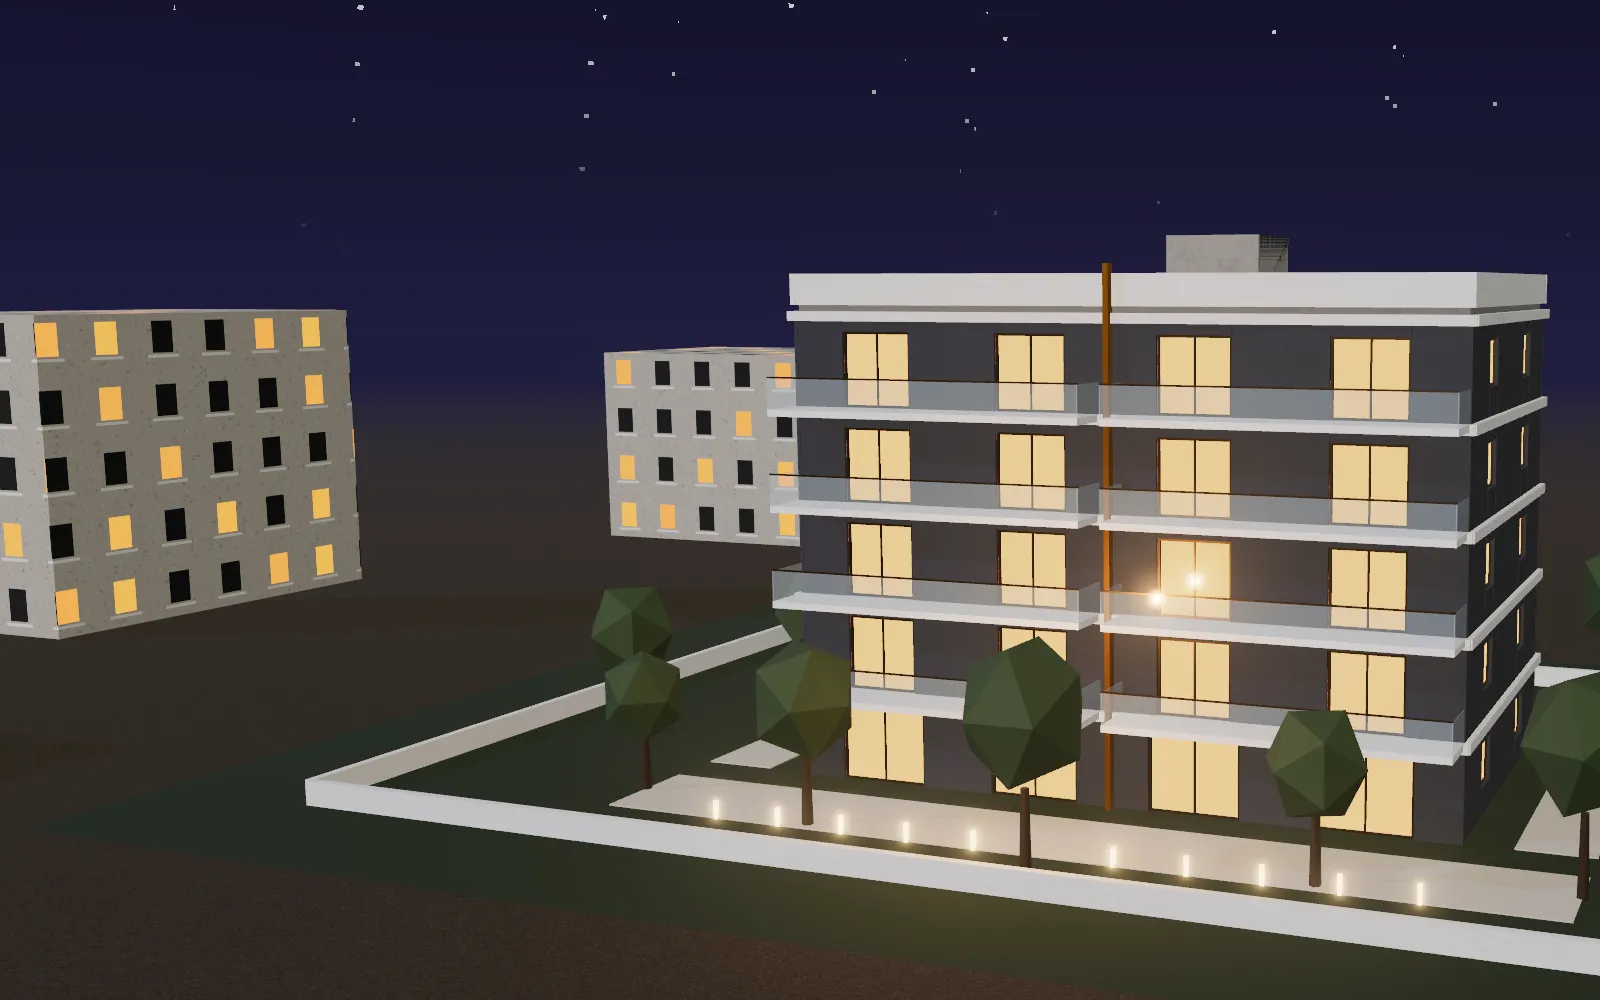
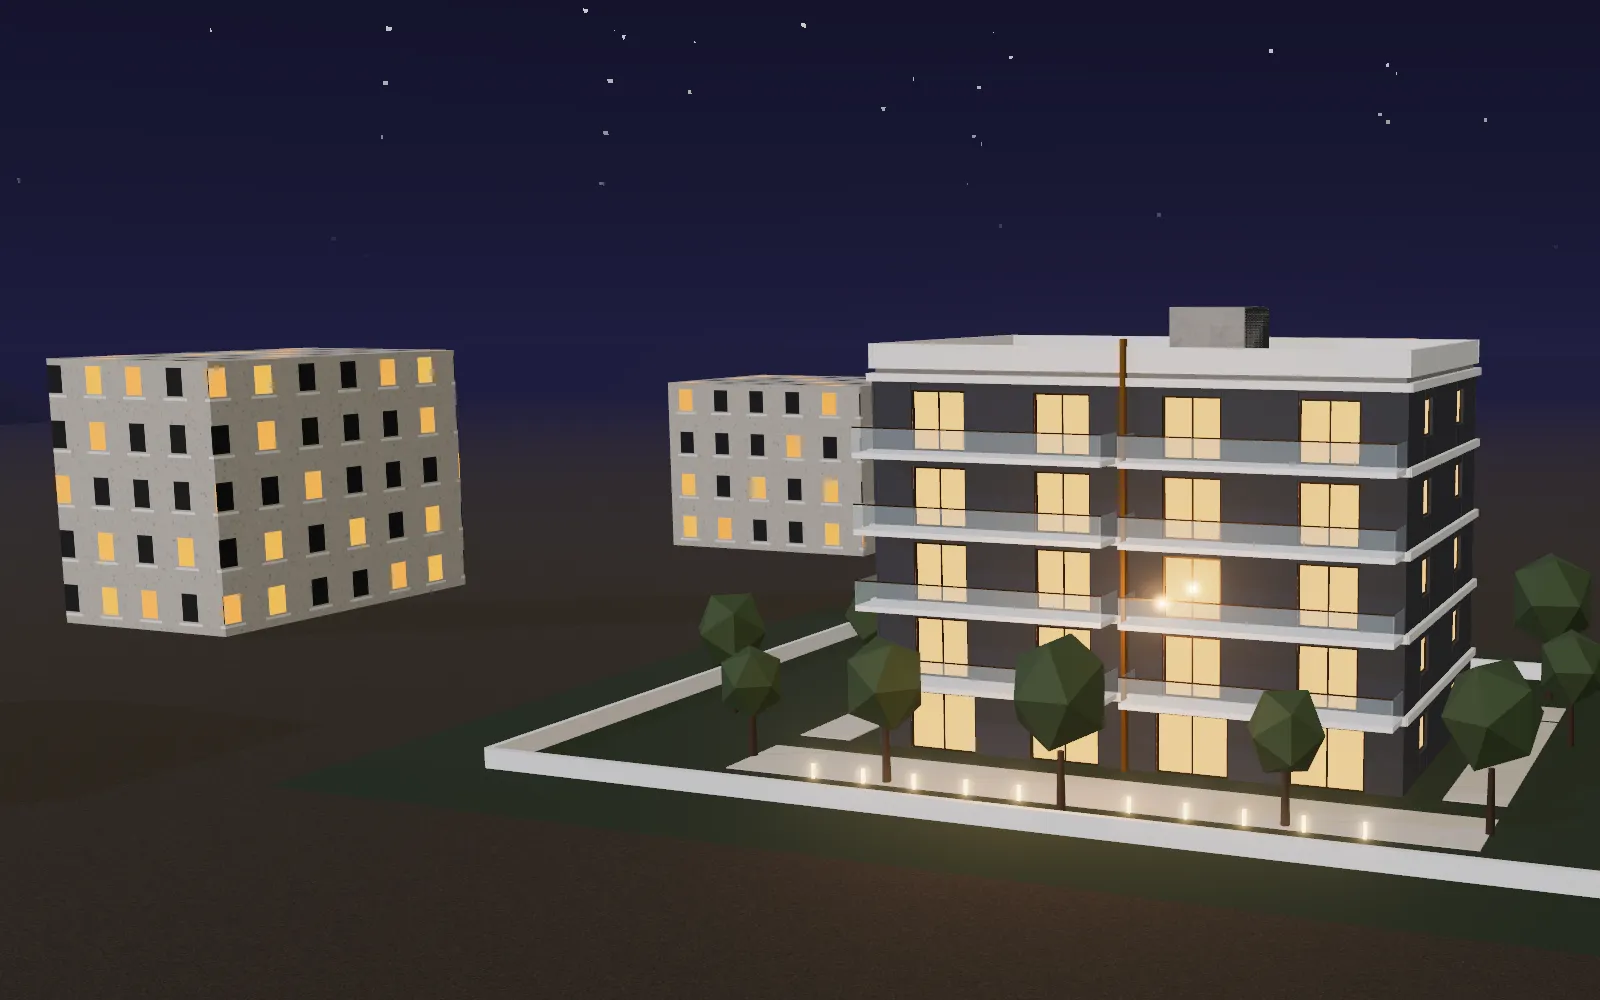
Ottimizza prestazioni, accessibilita' e SEO della bozza
- Il 3D si carica al primo gesto; nel frattempo il racconto usa le immagini
  gia' pronte, caricate solo quando servono
- Versione leggera automatica senza scheda video
- Nomi accessibili per i pulsanti degli strumenti
- robots.txt, sitemap, canonical e URL assoluti per anteprime e dati strutturati
- Apertura con edificio piu' arretrato e titolo piu' compatto

Claude-Session: https://claude.ai/code/session_01A6gSpR9jgixhBShp2m3M44

diff --git a/src/main.js b/src/main.js
@@ -19,11 +19,20 @@ const mobile = mq('(max-width: 760px)') || mq('(pointer: coarse)');
 function hasWebGL() {
   try { const c = document.createElement('canvas'); return !!(c.getContext('webgl2') || c.getContext('webgl')); } catch { return false; }
 }
+// Senza scheda video (rendering software) il 3D sarebbe lento: meglio la versione leggera.
+function softwareGL() {
+  try {
+    const gl = document.createElement('canvas').getContext('webgl');
+    const ext = gl && gl.getExtension('WEBGL_debug_renderer_info');
+    const r = ext ? gl.getParameter(ext.UNMASKED_RENDERER_WEBGL) : '';
+    return /swiftshader|llvmpipe|software|basic render/i.test(r);
+  } catch { return false; }
+}
 const conn = navigator.connection || {};
 const lowPower = (navigator.deviceMemory && navigator.deviceMemory <= 3) || (mobile && navigator.hardwareConcurrency && navigator.hardwareConcurrency <= 4) || conn.saveData;
 let mode = '3d';
 if (!hasWebGL()) mode = 'lite';
-else if (params.has('lite') || reduced || lowPower) mode = 'lite';
+else if (params.has('lite') || reduced || lowPower || softwareGL()) mode = 'lite';
 if (params.has('3d') && hasWebGL()) mode = '3d';
 document.documentElement.dataset.mode = mode;
 
@@ -123,33 +132,38 @@ function onScroll() {
     phaseBtns.forEach((b, k) => { b.toggleAttribute('aria-current', k === i); if (k === i) b.setAttribute('aria-current', 'step'); b.classList.toggle('done', k < i); });
   }
   const [, ora, mom] = timeAt(t); hudOra.textContent = ora; hudMomento.textContent = mom;
-  if (exp) exp.setTarget(t); else if (mode === 'lite') liteFrame(t);
+  if (exp) exp.setTarget(t); else liteFrame(t);
   // pausa del rendering quando la scena non e' visibile
   if (exp) exp.setActive(y < metrics.expEnd);
 }
 
-// ---------------- versione leggera: immagini dalla stessa scena ----------------
+// ---------------- immagini dalla stessa scena ----------------
+// Usate dalla versione leggera e, nella versione 3D, finché la scena non è pronta.
 const framesEl = $('#frames');
-let frames = [];
+const frames = [];
+const suf = mobile ? 'm' : 'd';
+for (let k = 0; k <= 12; k++) {
+  const img = new Image(); img.alt = ''; img.decoding = 'async';
+  framesEl.appendChild(img); frames.push(img);
+}
+// carica solo l'immagine che serve e le due vicine
+const need = (k) => { const f = frames[k]; if (f && !f.src) f.src = `frames/f${String(k).padStart(2, '0')}-${suf}.webp`; };
 function setupLite() {
-  const suf = mobile ? 'm' : 'd';
-  for (let k = 0; k <= 12; k++) {
-    const img = new Image(); img.alt = ''; img.decoding = 'async';
-    img.loading = k === 12 || k === 0 ? 'eager' : 'lazy';
-    img.src = `frames/f${String(k).padStart(2, '0')}-${suf}.webp`;
-    framesEl.appendChild(img); frames.push(img);
-  }
   $('#t-explore').hidden = true; $('#t-section').hidden = true; $('#t-site').hidden = true;
+  if (!hasWebGL()) return;
   const btn = document.createElement('button'); btn.type = 'button'; btn.className = 'tool'; btn.id = 't-3d';
+  btn.setAttribute('aria-label', 'Attiva la scena 3D');
   btn.innerHTML = '<svg viewBox="0 0 24 24" aria-hidden="true"><path d="M12 3l8 4.5v9L12 21l-8-4.5v-9zM12 12l8-4.5M12 12v9M12 12L4 7.5"/></svg><span>Attiva il 3D</span>';
-  if (hasWebGL()) { $('.toolbar').prepend(btn); btn.addEventListener('click', () => { location.search = '?3d'; }); }
+  $('.toolbar').prepend(btn);
+  btn.addEventListener('click', () => { mode = '3d'; document.documentElement.dataset.mode = '3d'; btn.remove(); ['#t-explore', '#t-section', '#t-site'].forEach((id) => { $(id).hidden = false; }); load3D(); });
 }
 let liteIdx = -1;
 function liteFrame(t) {
   const k = clamp(Math.round(t - 0.4), 0, 12);
   if (k === liteIdx) return; liteIdx = k;
+  need(k); need(k - 1); need(k + 1);
   frames.forEach((f, j) => f.classList.toggle('on', j === k));
-  $('#poster').style.opacity = '0';
+  if (k !== 12) $('#poster').style.opacity = '0';
 }
 
 // ---------------- caricamento della scena 3D ----------------
@@ -174,16 +188,12 @@ async function load3D() {
     mode = 'lite'; document.documentElement.dataset.mode = 'lite'; loader.hidden = true; setupLite(); onScroll();
   }
 }
-// Il 3D si carica dopo la pagina: al primo gesto dell'utente o quando il browser e' libero.
+// Il 3D si carica solo al primo gesto dell'utente: la pagina resta leggera e veloce.
+// Intanto il racconto usa le immagini già pronte, quindi l'effetto parte subito.
 function scheduleLoad() {
-  const go = () => { load3D(); off(); };
   const evs = ['pointerdown', 'wheel', 'touchstart', 'keydown', 'scroll'];
-  const off = () => evs.forEach((e) => window.removeEventListener(e, go));
-  evs.forEach((e) => window.addEventListener(e, go, { passive: true, once: true }));
-  if (!mobile) {
-    const idle = window.requestIdleCallback || ((f) => setTimeout(f, 1200));
-    window.addEventListener('load', () => idle(go, { timeout: 2500 }));
-  }
+  const go = () => { evs.forEach((e) => window.removeEventListener(e, go)); load3D(); };
+  evs.forEach((e) => window.addEventListener(e, go, { passive: true }));
 }
 
 // ---------------- strumenti ----------------

diff --git a/index.html b/index.html
@@ -12,7 +12,9 @@
   <meta property="og:locale" content="it_IT">
   <meta property="og:title" content="El.An. · Diamo nuova vita ai luoghi">
   <meta property="og:description" content="Nuove residenze nel Cilento, costruite da chi lavora qui da oltre vent'anni.">
-  <meta property="og:image" content="frames/f12-d.webp">
+  <meta property="og:image" content="https://elan-sito.onrender.com/frames/f12-d.webp">
+  <meta property="og:url" content="https://elan-sito.onrender.com/">
+  <link rel="canonical" href="https://elan-sito.onrender.com/">
   <link rel="preload" as="image" href="frames/f12-d.webp" media="(min-width: 761px)" fetchpriority="high">
   <link rel="preload" as="image" href="frames/f12-m.webp" media="(max-width: 760px)" fetchpriority="high">
   <script type="application/ld+json">
@@ -22,8 +24,9 @@
     "name": "El.An. S.r.l.",
     "alternateName": "El.An. Costruzioni Residenziali",
     "description": "Sviluppo residenziale nel Cilento: demolizione e ricostruzione di edifici inutilizzati per realizzare nuove abitazioni.",
-    "logo": "img/elan-logo.svg",
-    "image": "frames/f12-d.webp",
+    "url": "https://elan-sito.onrender.com/",
+    "logo": "https://elan-sito.onrender.com/img/elan-logo.svg",
+    "image": "https://elan-sito.onrender.com/frames/f12-d.webp",
     "address": { "@type": "PostalAddress", "addressLocality": "Agropoli", "addressRegion": "SA", "addressCountry": "IT" },
     "areaServed": { "@type": "Place", "name": "Cilento" },
     "knowsLanguage": "it"
@@ -72,10 +75,10 @@
           <ol class="hud-phases" id="hud-phases" aria-label="Fasi della costruzione"></ol>
           <div class="hud-quota" aria-hidden="true"><span id="hud-quota">+15,50</span><small>quota</small></div>
           <div class="toolbar" role="toolbar" aria-label="Strumenti della scena 3D">
-            <button type="button" class="tool" id="t-explore" aria-pressed="false"><svg viewBox="0 0 24 24" aria-hidden="true"><path d="M12 4a8 8 0 1 0 8 8M20 4v5h-5"/></svg><span>Ruota</span></button>
-            <button type="button" class="tool" id="t-section" aria-pressed="false"><svg viewBox="0 0 24 24" aria-hidden="true"><path d="M4 20V8l8-4 8 4v12M12 4v16M4 14h16"/></svg><span>Spaccato</span></button>
-            <button type="button" class="tool" id="t-site" aria-pressed="false"><svg viewBox="0 0 24 24" aria-hidden="true"><path d="M5 21V3M5 5h15M17 5v6M3 21h6M9 5l-4 4"/></svg><span>Cantiere</span></button>
-            <button type="button" class="tool" id="t-parts" aria-expanded="false" aria-controls="parts-menu"><svg viewBox="0 0 24 24" aria-hidden="true"><path d="M4 6h16M4 12h16M4 18h10"/></svg><span>Elementi</span></button>
+            <button type="button" class="tool" id="t-explore" aria-label="Ruota la scena" aria-pressed="false"><svg viewBox="0 0 24 24" aria-hidden="true"><path d="M12 4a8 8 0 1 0 8 8M20 4v5h-5"/></svg><span>Ruota</span></button>
+            <button type="button" class="tool" id="t-section" aria-label="Mostra lo spaccato" aria-pressed="false"><svg viewBox="0 0 24 24" aria-hidden="true"><path d="M4 20V8l8-4 8 4v12M12 4v16M4 14h16"/></svg><span>Spaccato</span></button>
+            <button type="button" class="tool" id="t-site" aria-label="Mostra il cantiere" aria-pressed="false"><svg viewBox="0 0 24 24" aria-hidden="true"><path d="M5 21V3M5 5h15M17 5v6M3 21h6M9 5l-4 4"/></svg><span>Cantiere</span></button>
+            <button type="button" class="tool" id="t-parts" aria-label="Elenco degli elementi" aria-expanded="false" aria-controls="parts-menu"><svg viewBox="0 0 24 24" aria-hidden="true"><path d="M4 6h16M4 12h16M4 18h10"/></svg><span>Elementi</span></button>
           </div>
           <div class="parts-menu" id="parts-menu" hidden></div>
           <a class="skip-exp" href="#progetti">Salta ai progetti ↓</a>

diff --git a/src/styles/main.css b/src/styles/main.css
@@ -85,12 +85,12 @@ abbr.cap { font: 500 10px var(--mono); color: var(--gold-hi); text-decoration: n
 .poster img, .frames img { object-fit: cover; }
 .stage canvas { opacity: 0; transition: opacity 1.2s ease; display: block; touch-action: pan-y; }
 .stage.ready canvas { opacity: 1; }
-.stage.ready .poster { opacity: 0; transition: opacity 1.2s ease 0.2s; }
+.stage.ready .poster, .stage.ready .frames { opacity: 0; transition: opacity 1.2s ease 0.2s; }
 .frames img { opacity: 0; transition: opacity 0.6s ease; transform: scale(1.04); }
 .frames img.on { opacity: 1; animation: kb 14s ease-out both; }
 @keyframes kb { from { transform: scale(1.08); } to { transform: scale(1.0); } }
 .vignette { position: absolute; inset: 0; pointer-events: none; background:
-  linear-gradient(90deg, rgba(18, 19, 17, 0.78) 0%, rgba(18, 19, 17, 0.35) 34%, rgba(18, 19, 17, 0) 58%),
+  linear-gradient(90deg, rgba(18, 19, 17, 0.85) 0%, rgba(18, 19, 17, 0.5) 36%, rgba(18, 19, 17, 0) 60%),
   linear-gradient(0deg, rgba(18, 19, 17, 0.6) 0%, rgba(18, 19, 17, 0) 22%),
   linear-gradient(180deg, rgba(18, 19, 17, 0.55) 0%, rgba(18, 19, 17, 0) 16%); }
 @media (max-width: 760px) { .vignette { background: linear-gradient(0deg, rgba(18, 19, 17, 0.92) 0%, rgba(18, 19, 17, 0.5) 42%, rgba(18, 19, 17, 0) 62%), linear-gradient(180deg, rgba(18, 19, 17, 0.6) 0%, rgba(18, 19, 17, 0) 18%); } }
@@ -169,9 +169,10 @@ abbr.cap { font: 500 10px var(--mono); color: var(--gold-hi); text-decoration: n
 /* apertura */
 .hero { position: relative; z-index: 2; height: 175vh; margin-top: -100vh; margin-top: -100lvh; pointer-events: none; }
 .hero-inner { position: sticky; top: 0; height: 100vh; height: 100svh; display: flex; flex-direction: column; justify-content: flex-end; gap: 22px; padding: calc(var(--hdr) + 40px) var(--gutR) clamp(90px, 13vh, 140px) var(--gut); max-width: calc(var(--maxw) + 40px); pointer-events: auto; }
-.hero h1 { font: 800 clamp(40px, 6.4vw, 96px)/0.95 var(--display); font-stretch: 118%; letter-spacing: -0.01em; text-transform: uppercase; max-width: 15ch; }
+.hero h1 { font: 800 clamp(38px, 5vw, 78px)/0.95 var(--display); font-stretch: 118%; letter-spacing: -0.01em; text-transform: uppercase; max-width: 15ch; }
 .hero h1 span { display: block; color: var(--gold); font-size: 0.5em; line-height: 1.05; margin-top: 0.35em; font-stretch: 112%; letter-spacing: 0; max-width: 24ch; }
 .hero .lead { max-width: 52ch; }
+.hero-inner > :not(.actions) { text-shadow: 0 2px 22px rgba(10, 11, 9, 0.75); }
 .rewind { position: fixed; left: 50%; top: 50%; transform: translate(-50%, -50%); text-align: center; pointer-events: none; opacity: 0; z-index: 3; }
 .rewind span { display: block; font: 500 12px var(--mono); letter-spacing: 0.24em; text-transform: uppercase; color: var(--ash); }
 .rewind b { display: block; font: 800 clamp(90px, 16vw, 220px)/1 var(--display); font-stretch: 125%; color: transparent; -webkit-text-stroke: 1.5px var(--gold); }

diff --git a/src/three/scene.js b/src/three/scene.js
@@ -25,7 +25,7 @@ const CAM = [
   [24, 8, 50, 8],      // 9 facciata
   [34, 12, 36, 6.5],   // 10 finiture (spaccato)
   [28, 8, 54, 7.5],    // 11 consegna
-  [20, 7, 60, 9],      // 12 fine
+  [20, 7, 74, 10],     // 12 fine
 ];
 
 // Luce del giorno lungo la storia: alba -> giorno -> tramonto -> sera.
